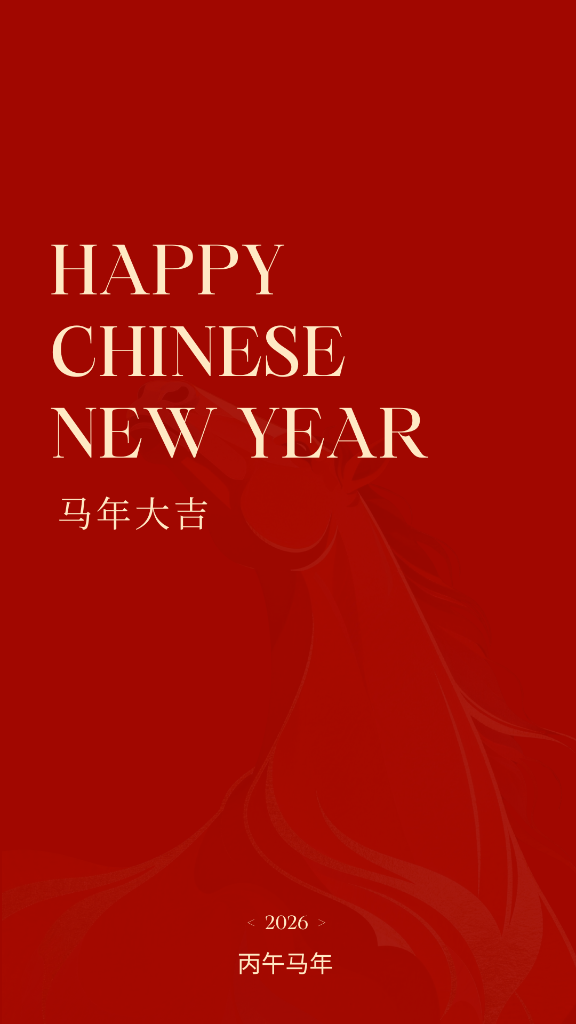
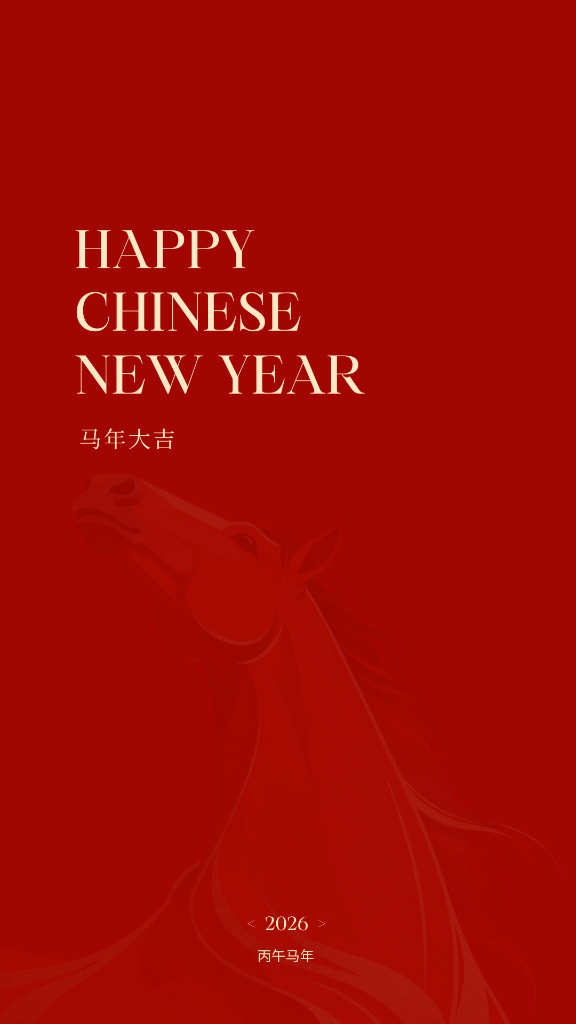
更新春节版本：新增拜年马人格，更新App图标和广告图为春节主题

diff --git a/data/database.ts b/data/database.ts
@@ -168,8 +168,8 @@ export const HORSES_DATA: HorseEntry[] = [
   },
   {
     "id": "GEN_MON_001",
-    "title": "开工马",
-    "subtitle": "开工大吉，马上有钱",
+    "title": "加油马",
+    "subtitle": "天哪，新的一周又开始了，又得加油了哇",
     "timeTag": "monday",
     "jobTag": ["programmer", "designer", "pm_operator", "marketer", "engineer", "professional", "manager", "general"]
   },
@@ -212,7 +212,7 @@ export const HORSES_DATA: HorseEntry[] = [
   {
     "id": "DES_WKD_006",
     "title": "苹什马",
-    "subtitle": "凭什么?这个方案通不过行吧，甲方爸爸你说了算。",
+    "subtitle": "凭什么?这个方案通不过？行吧，甲方爸爸你说了算。",
     "timeTag": "workday_normal",
     "jobTag": ["designer", "pm_operator", "marketer", "general"]
   },
@@ -303,7 +303,7 @@ export const HORSES_DATA: HorseEntry[] = [
   {
     "id": "DES_OT_004",
     "title": "版本马",
-    "subtitle": "“最终版_v2_确认版_这回真不改了_定稿_Final_真的Final版.psd”，是我的代表作。",
+    "subtitle": "“最终版_v2_确认版_这回真不改了_定稿_Final_真的Final版.psd”。",
     "timeTag": "overtime_night",
     "jobTag": ["designer", "pm_operator", "general"]
   },
@@ -345,9 +345,9 @@ export const HORSES_DATA: HorseEntry[] = [
   {
     "id": "PRO_HOL_002",
     "title": "拜年马",
-    "subtitle": "春节假期的主要工作：在家族群里抢红包，以及在技术群里回答线上报警的问题。",
-    "timeTag": "after_holiday",
-    "jobTag": ["programmer", "engineer", "manager", "general"]
+    "subtitle": "春节假期的主要工作：在家族群里发拜年微信、抢红包。",
+    "timeTag": "spring_festival",
+    "jobTag": ["programmer", "designer", "pm_operator", "marketer", "engineer", "professional", "manager", "general"]
   },
   {
     "id": "PM_NOON_001",
